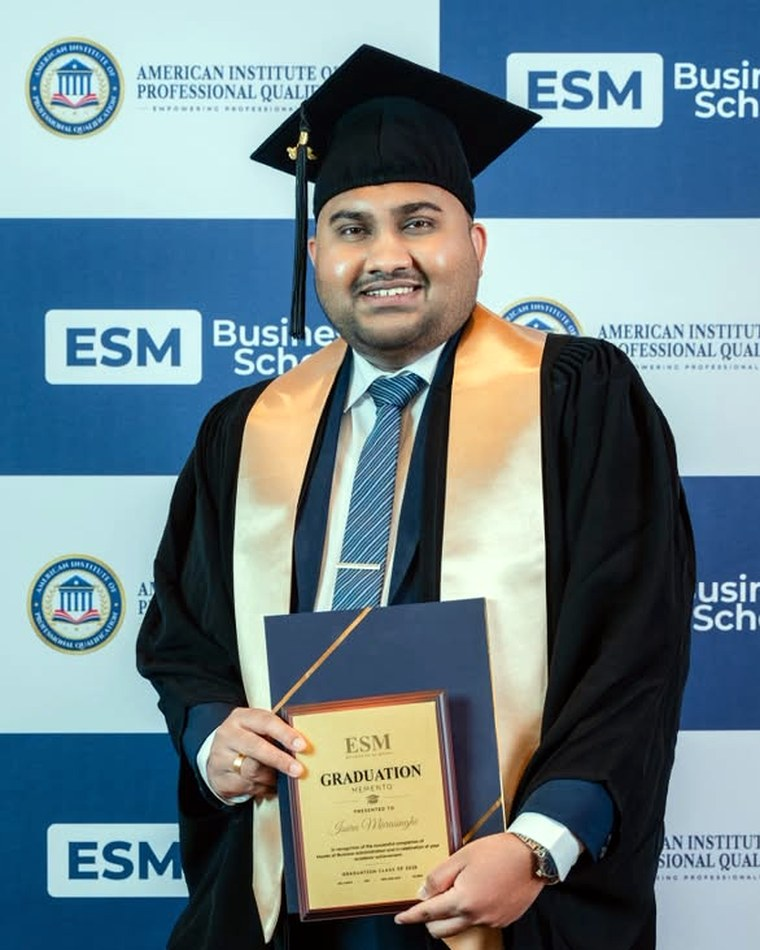
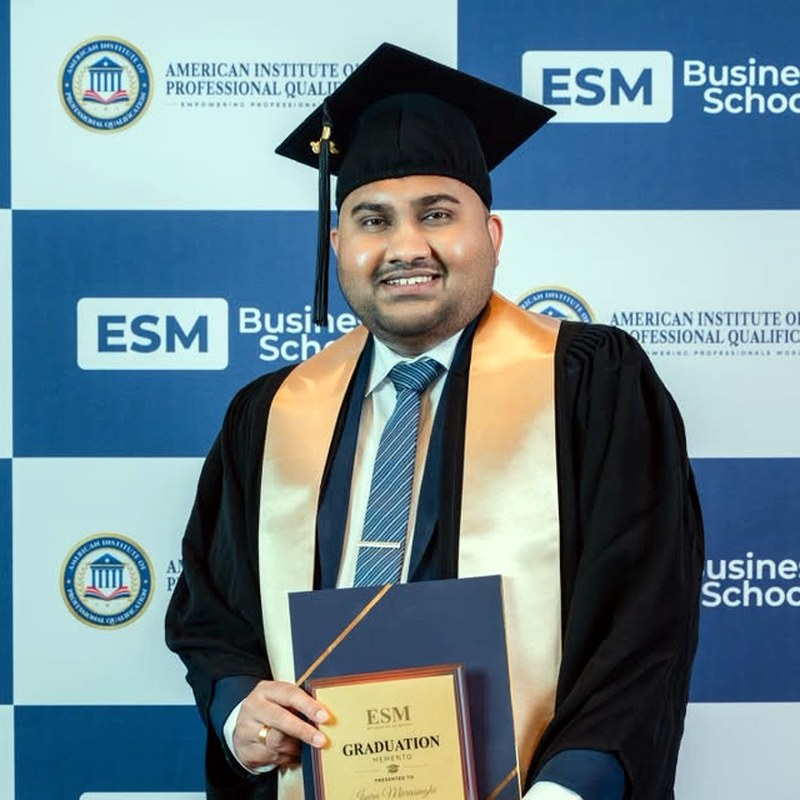
Square graduation cards, and the bug that made them tall
The cards were never meant to be that tall, and the cause was a CSS bug
rather than a design choice. The images carry intrinsic width and height
attributes, added in the audit to stop layout shift. Those are
presentational hints: with a definite height and no CSS height, the box is
already resolved and aspect-ratio is ignored, so every card rendered at
its natural height. The strip measured 893px when it should have been
around 300. One height:auto fixes it, with a comment saying why.

Then the crops: 1:1 rather than 4:5, head at 32% of the frame with 12%
headroom, which suits a square. The strip is now 336px tall, five cards
across at 243px each, three across below 1100px and two below 760px.

Claude-Session: https://claude.ai/code/session_01WvhRDge3ToZ8jrBB9JQYnv

diff --git a/about.html b/about.html
@@ -208,11 +208,11 @@
       <div class="h"><h2 id="ab-photos">Where they came from</h2></div>
       <div class="c">
         <div class="photo-strip">
-          <figure class="shot-p"><picture><source srcset="assets/img/about/graduation-mba.webp" type="image/webp"><img src="assets/img/about/graduation-mba.jpg" alt="Isuru Marasinghe graduating with an MBA from the University of Gloucestershire" width="760" height="950" loading="lazy" decoding="async"></picture><figcaption><b>University of Gloucestershire</b><span>MBA</span></figcaption></figure>
-          <figure class="shot-p"><picture><source srcset="assets/img/about/graduation-horizon.webp" type="image/webp"><img src="assets/img/about/graduation-horizon.jpg" alt="Isuru Marasinghe graduating from Horizon Campus, Sri Lanka" width="760" height="950" loading="lazy" decoding="async"></picture><figcaption><b>Horizon Campus</b><span>BM (Hons) Marketing, First Class</span></figcaption></figure>
-          <figure class="shot-p"><picture><source srcset="assets/img/about/graduation-cim.webp" type="image/webp"><img src="assets/img/about/graduation-cim.jpg" alt="Isuru Marasinghe graduating from the Chartered Institute of Marketing" width="760" height="950" loading="lazy" decoding="async"></picture><figcaption><b>Chartered Institute of Marketing</b><span>PgDip.M, Level 7</span></figcaption></figure>
-          <figure class="shot-p"><picture><source srcset="assets/img/about/graduation-esm.webp" type="image/webp"><img src="assets/img/about/graduation-esm.jpg" alt="Isuru Marasinghe at the ESM Business School and AIPQ graduation ceremony" width="760" height="950" loading="lazy" decoding="async"></picture><figcaption><b>ESM Business School</b><span>AIPQ &middot; Certified Digital Marketing Practitioner</span></figcaption></figure>
-          <figure class="shot-p"><picture><source srcset="assets/img/about/graduation-esm-pair.webp" type="image/webp"><img src="assets/img/about/graduation-esm-pair.jpg" alt="Isuru Marasinghe and his wife at the ESM Business School and AIPQ graduation ceremony" width="760" height="950" loading="lazy" decoding="async"></picture><figcaption><b>ESM Business School</b><span>Alongside my wife, an MBA Graduate of the University of Sunderland, UK and a fellow Certified Digital Marketing Practitioner</span></figcaption></figure>
+          <figure class="shot-p"><picture><source srcset="assets/img/about/graduation-mba.webp" type="image/webp"><img src="assets/img/about/graduation-mba.jpg" alt="Isuru Marasinghe graduating with an MBA from the University of Gloucestershire" width="800" height="800" loading="lazy" decoding="async"></picture><figcaption><b>University of Gloucestershire</b><span>MBA</span></figcaption></figure>
+          <figure class="shot-p"><picture><source srcset="assets/img/about/graduation-horizon.webp" type="image/webp"><img src="assets/img/about/graduation-horizon.jpg" alt="Isuru Marasinghe graduating from Horizon Campus, Sri Lanka" width="800" height="800" loading="lazy" decoding="async"></picture><figcaption><b>Horizon Campus</b><span>BM (Hons) Marketing, First Class</span></figcaption></figure>
+          <figure class="shot-p"><picture><source srcset="assets/img/about/graduation-cim.webp" type="image/webp"><img src="assets/img/about/graduation-cim.jpg" alt="Isuru Marasinghe graduating from the Chartered Institute of Marketing" width="800" height="800" loading="lazy" decoding="async"></picture><figcaption><b>Chartered Institute of Marketing</b><span>PgDip.M, Level 7</span></figcaption></figure>
+          <figure class="shot-p"><picture><source srcset="assets/img/about/graduation-esm.webp" type="image/webp"><img src="assets/img/about/graduation-esm.jpg" alt="Isuru Marasinghe at the ESM Business School and AIPQ graduation ceremony" width="800" height="800" loading="lazy" decoding="async"></picture><figcaption><b>ESM Business School</b><span>AIPQ &middot; Certified Digital Marketing Practitioner</span></figcaption></figure>
+          <figure class="shot-p"><picture><source srcset="assets/img/about/graduation-esm-pair.webp" type="image/webp"><img src="assets/img/about/graduation-esm-pair.jpg" alt="Isuru Marasinghe and his wife at the ESM Business School and AIPQ graduation ceremony" width="800" height="800" loading="lazy" decoding="async"></picture><figcaption><b>ESM Business School</b><span>Alongside my wife, an MBA Graduate of the University of Sunderland, UK and a fellow Certified Digital Marketing Practitioner</span></figcaption></figure>
         </div>
       </div>
     </section>

diff --git a/assets/css/site.css b/assets/css/site.css
@@ -687,12 +687,15 @@ footer .foot{padding-top:26px;}
 .service .svc-sec.full{grid-template-columns:1fr;gap:20px;}
 .service .svc-sec.full > .h h2{position:static;}
 
-/* Four portraits on a shared head scale, then the two-up shot on a row of its own,
-   because squeezing two people into a 4:5 slot cut both of them at the edges. */
+/* Five square cards on a shared head scale, including the two-up shot, which is
+   cropped wide enough to hold both people inside the same square. */
 .photo-strip{display:grid;grid-template-columns:repeat(5,minmax(0,1fr));gap:12px;}
 .shot-p{margin:0;min-width:0;display:flex;flex-direction:column;}
 .shot-p picture{display:block;border:1px solid var(--hairline);border-radius:var(--r-md);overflow:hidden;background:var(--sunk);}
-.shot-p img{width:100%;aspect-ratio:4/5;object-fit:cover;display:block;
+/* height:auto matters: the intrinsic height attribute is a presentational hint, and with
+   no CSS height the box is definite, so aspect-ratio is ignored and the image renders at
+   its natural height. */
+.shot-p img{width:100%;height:auto;aspect-ratio:1/1;object-fit:cover;display:block;
   transition:transform var(--dur-hover) var(--ease);}
 .shot-p:hover img{transform:scale(1.015);}
 .shot-p figcaption{margin-top:11px;display:flex;flex-direction:column;gap:3px;}
